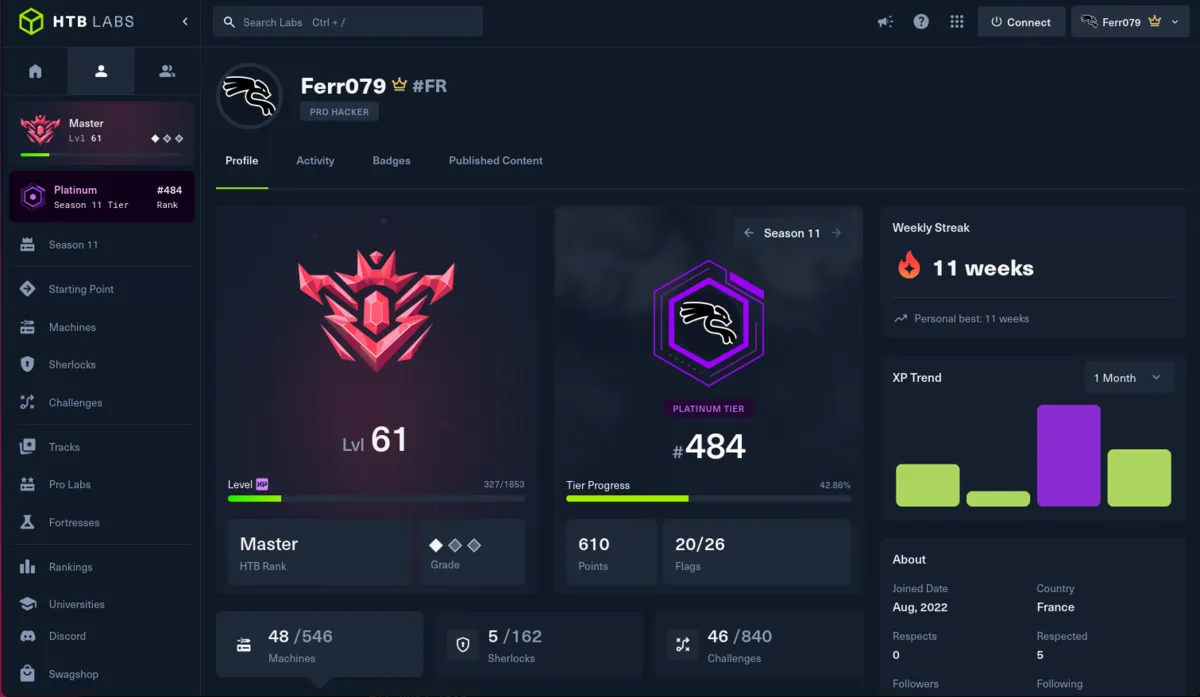
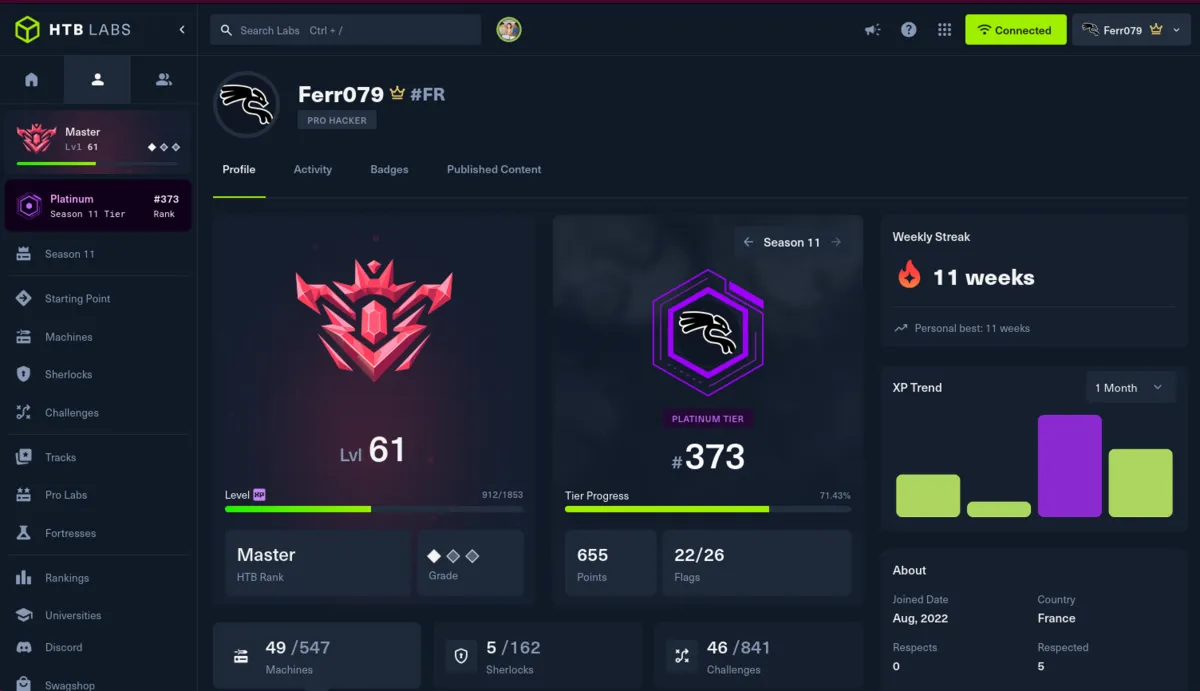
ctf: refresh HTB dashboard screenshot + stats (Master Lvl 61, Platinum #373)
New screenshot: Season 11 Platinum tier #373 (was #484), 1200x691.
Cross-checked HTB live API + KV before bumping fallbacks: 49 system +
51 user owns (594 global rank, 100 flags) across ctf.astro, build-stats.ts,
chat.ts, about.astro DynNum, index.astro DynNum, CLAUDE.md profile table.

diff --git a/src/pages/api/chat.ts b/src/pages/api/chat.ts
@@ -34,7 +34,7 @@ async function checkRateLimit(ip: string): Promise<{ allowed: boolean; retryAfte
 // moment de la requête (l'équivalent Worker d'un <DynNum>) ; les fallbacks ne
 // servent que si le KV est injoignable. rootme_validations n'est pas dans le KV.
 async function liveCtfStats(): Promise<Record<string, string>> {
-  const fb: Record<string, string> = { HTB_RANK: '592', HTB_RANK_NAME: 'Pro Hacker', HTB_FLAGS: '98', HTB_MACHINES: '48', ROOTME_SCORE: '1050' };
+  const fb: Record<string, string> = { HTB_RANK: '594', HTB_RANK_NAME: 'Pro Hacker', HTB_FLAGS: '100', HTB_MACHINES: '49', ROOTME_SCORE: '1050' };
   try {
     const stats = await env.STATS_KV.get('stats', { type: 'json' }) as Record<string, unknown> | null;
     const num = (v: unknown, f: string) => { const n = Number(v); return Number.isFinite(n) && n > 0 ? String(n) : f; };

diff --git a/src/lib/build-stats.ts b/src/lib/build-stats.ts
@@ -15,7 +15,7 @@
  * snapshot so a build never ships empty numbers.
  */
 
-// Last-known snapshot (2026-08-01). Only used if the build can't reach /api/stats.
+// Last-known snapshot (2026-08-02). Only used if the build can't reach /api/stats.
 const FALLBACK: Record<string, string | number> = {
   claude_hours: 6018,
   claude_cache_hit: 96.8,
@@ -28,11 +28,11 @@ const FALLBACK: Record<string, string | number> = {
   uptime_pct: 100.0,
   forgejo_commits_30d: 1473,
   proxmox_nodes: 4,
-  htb_flags: 98,
+  htb_flags: 100,
   htb_rank: 'Pro Hacker',
-  htb_ranking: 585,
-  htb_system_owns: 48,
-  htb_user_owns: 50,
+  htb_ranking: 594,
+  htb_system_owns: 49,
+  htb_user_owns: 51,
   rootme_score: 1050,
   rootme_validations: 75,
   rootme_position: 15486,

diff --git a/src/image-dims.ts b/src/image-dims.ts
@@ -4,7 +4,7 @@
 // space, kill CLS). Regenerate after adding/replacing images: ./scripts/gen-image-variants.sh
 export const IMAGE_DIMS: Record<string, [number, number]> = {
   "/images/homepage-dashboard.webp": [2944, 2049],
-  "/images/htb-dashboard.webp": [1200, 697],
+  "/images/htb-dashboard.webp": [1200, 691],
   "/images/immich-gallery-1.webp": [1920, 2022],
   "/images/immich-gallery-2.webp": [1920, 2022],
   "/images/monitoring/beszel.webp": [1200, 703],

diff --git a/CLAUDE.md b/CLAUDE.md
@@ -134,7 +134,7 @@ git push origin main   # origin = Forgejo (org pixelium) ; push-mirror → GitHu
 
 | Platform | Username | Current stats |
 |---|---|---|
-| Hack The Box | Ferr079 | Pro Hacker rank, #592, 48 system + 50 user owns, 98 flags (fallback ctf.astro + build-stats.ts + chat.ts + about.astro `DynNum` aligné sur le KV `/api/stats` — cf [[reference_ctf_htb_stats_freshness]], garder ce fallback à jour à la main). Lvl 61 « Master » · Season 11 Platinum tier #483 · streak 11 sem. (screenshot `htb-dashboard.webp` MAJ 2026-07-30 = Pro Hacker/Lvl 61/Platinum #483/11-week, 1200x708 ; `?v=20260730`). ⚠ `/profile/activity` **supprimé par HTB 2026** (HTTP 400) → `flags = user_owns + system_owns`, ne PAS ré-ajouter d'appel activity. NB : `ranking` = rang **global** HTB (≠ `#483` = rang de saison du screenshot) ; le « HTB Rank » du dashboard (Professional → **Master** au Lvl 61) est une **2ᵉ échelle**, distincte du `rank` de l'API (`Pro Hacker`) — les deux coexistent dans la caption |
+| Hack The Box | Ferr079 | Pro Hacker rank, #594, 49 system + 51 user owns, 100 flags (fallback ctf.astro + build-stats.ts + chat.ts + about.astro `DynNum` aligné sur le KV `/api/stats` — cf [[reference_ctf_htb_stats_freshness]], garder ce fallback à jour à la main). Lvl 61 « Master » · Season 11 Platinum tier #373 · streak 11 sem. (screenshot `htb-dashboard.webp` MAJ 2026-08-02 = Pro Hacker/Lvl 61/Platinum #373/11-week, 1200x691 ; `?v=20260802`). ⚠ `/profile/activity` **supprimé par HTB 2026** (HTTP 400) → `flags = user_owns + system_owns`, ne PAS ré-ajouter d'appel activity. NB : `ranking` = rang **global** HTB (≠ `#373` = rang de saison du screenshot) ; le « HTB Rank » du dashboard (Professional → **Master** au Lvl 61) est une **2ᵉ échelle**, distincte du `rank` de l'API (`Pro Hacker`) — les deux coexistent dans la caption |
 | TryHackMe | ferr0 | Top 15%, 35 rooms, 7 badges |
 | Root-Me | Ferr0 | 1050 pts, 75 challenges, #15486 (fallback ctf.astro + build-stats.ts ; score live au build, `rootme_validations`/`rootme_position` absents du KV live — homelab `infra/homelab#117`, gardés en fallback à jour à la main) |
 | GitHub | ferr079 | github.com/ferr079 |
